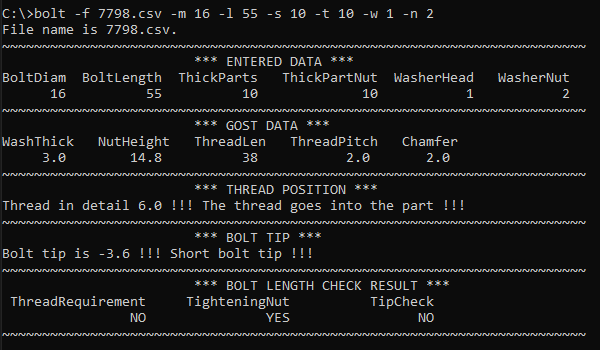
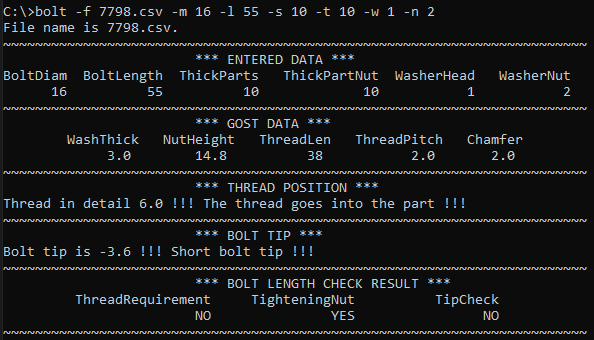
Delete calculate 52644

Changed region(s): [[0.0, 0.0, 1.0, 1.0]]

diff --git a/bolt_check/temp_function.c b/bolt_check/temp_function.c
@@ -109,8 +109,8 @@ int bolt_check_thread(bolt info[], int number, int *arr)
         {
             thread_result = arr[4] * info[i].washer_thickness + arr[2] + arr[3] - arr[1] + info[i].thread_length;
             printf("\t\t\t*** GOST DATA ***\n");
-            printf("%s%12s%12s%14s%10s\n", "WashThick", "NutHeight", "ThreadLen", "ThreadPitch", "Chamfer");
-            printf("%8.1f%12.1f%12d%14.1f%10.1f\n", info[i].washer_thickness, info[i].nut_height,
+            printf("\t%s%12s%12s%14s%10s\n", "WashThick", "NutHeight", "ThreadLen", "ThreadPitch", "Chamfer");
+            printf("\t%8.1f%12.1f%12d%14.1f%10.1f\n", info[i].washer_thickness, info[i].nut_height,
                    info[i].thread_length, info[i].thread_pitch, info[i].chamfer);
             STR_LINE;
             printf("\t\t\t*** THREAD POSITION ***\n");
@@ -181,19 +181,19 @@ void print_result_check(int res1_2, int res3)
     printf("\n");
     STR_LINE;
     printf("\t\t\t*** BOLT LENGTH CHECK RESULT ***\n");
-    printf("%18s%18s%18s\n", "ThreadRequirement", "TighteningNut", "TipCheck");
+    printf("\t%18s%18s%18s\n", "ThreadRequirement", "TighteningNut", "TipCheck");
     if (res1_2 == 0 && res3 == 0)
-        printf("%18s%18s%18s\n", "YES", "YES", "YES");
+        printf("\t%18s%18s%18s\n", "YES", "YES", "YES");
     else if (res1_2 == 0 && res3 == 1)
-        printf("%18s%18s%18s\n", "YES", "YES", "NO");
+        printf("\t%18s%18s%18s\n", "YES", "YES", "NO");
     else if (res1_2 == 1 && res3 == 0)
-        printf("%18s%18s%18s\n", "NO", "YES", "YES");
+        printf("\t%18s%18s%18s\n", "NO", "YES", "YES");
     else if (res1_2 == 1 && res3 == 1)
-        printf("%18s%18s%18s\n", "NO", "YES", "NO");
+        printf("\t%18s%18s%18s\n", "NO", "YES", "NO");
     else if (res1_2 == 2 && res3 == 0)
-        printf("%18s%18s%18s\n", "YES", "NO", "YES");
+        printf("\t%18s%18s%18s\n", "YES", "NO", "YES");
     else if (res1_2 == 2 && res3 == 1)
-        printf("%18s%18s%18s\n", "YES", "NO", "NO");
+        printf("\t%18s%18s%18s\n", "YES", "NO", "NO");
     STR_LINE;
 }
 
@@ -253,69 +253,6 @@ void bolt_length_check_7798(void)
     } else if (connect_package[0] == 30) //болт М30
     {
         for (int i = 14; i <= 37; i++)
-        {
-            if (bolt_length[i] == connect_package[1])
-                count_str++;
-        }
-    }
-
-    if (count_str != 1)
-    {
-        puts("\t\t!!! Incorrect bolt length entered !!!");
-        exit(1);
-    }
-}
-
-// Проверка длины болта по ГОСТ 52644
-void bolt_length_check_52644(void)
-{
-    int count_str = 0;
-
-    if (connect_package[0] == 16) // болт М16
-    {
-        for (int i = 7; i <= 37; i++)
-        {
-            if (bolt_length[i] == connect_package[1])
-                count_str++;
-        }
-    } else if (connect_package[0] == 20) // болт М20
-    {
-        for (int i = 9; i <= 37; i++)
-        {
-            if (bolt_length[i] == connect_package[1])
-                count_str++;
-        }
-    } else if (connect_package[0] == 24) // болт М24
-    {
-        for (int i = 11; i <= 37; i++)
-        {
-            if (bolt_length[i] == connect_package[1])
-                count_str++;
-        }
-    } else if (connect_package[0] == 30) // болт М30
-    {
-        for (int i = 14; i <= 37; i++)
-        {
-            if (bolt_length[i] == connect_package[1])
-                count_str++;
-        }
-    } else if (connect_package[0] == 36) // болт М36
-    {
-        for (int i = 17; i <= 37; i++)
-        {
-            if (bolt_length[i] == connect_package[1])
-                count_str++;
-        }
-    } else if (connect_package[0] == 42) // болт М42
-    {
-        for (int i = 20; i <= 37; i++)
-        {
-            if (bolt_length[i] == connect_package[1])
-                count_str++;
-        }
-    } else if (connect_package[0] == 48) // болт М48
-    {
-        for (int i = 23; i <= 37; i++)
         {
             if (bolt_length[i] == connect_package[1])
                 count_str++;

diff --git a/bolt_check/main.c b/bolt_check/main.c
@@ -39,10 +39,6 @@ int main(int argc, char *argv[])
                 break;
             case 'f':
                 file_name = optarg;
-                if (strcmp(file_name, "7798.csv") == 0)
-                    flag_g = 1;
-                else if (strcmp(file_name, "52644.csv") == 0)
-                    flag_g = 2;
                 printf("File name is %s.\n", file_name);
                 break;
             case 'm':
@@ -52,10 +48,7 @@ int main(int argc, char *argv[])
             case 'l':
                 // Длина болта [мм]
                 connect_package[1] = atoi(optarg);
-                if (flag_g == 1)
-                    bolt_length_check_7798();
-                else if (flag_g == 2)
-                    bolt_length_check_52644();
+                bolt_length_check_7798();
                 break;
             case 's':
                 // Толщина соединяемых деталей под головкой болта [мм]

diff --git a/bolt_check/temp_function.h b/bolt_check/temp_function.h
@@ -46,6 +46,5 @@ int bolt_check_thread(bolt info[], int number, int *arr);
 int bolt_tip_check(bolt info[], int number, int *arr);
 void print_result_check(int res1_2, int res3);
 void bolt_length_check_7798(void);
-void bolt_length_check_52644(void);
 
 #endif //BOLT_CHECK_TEMP_FUNCTION_H
